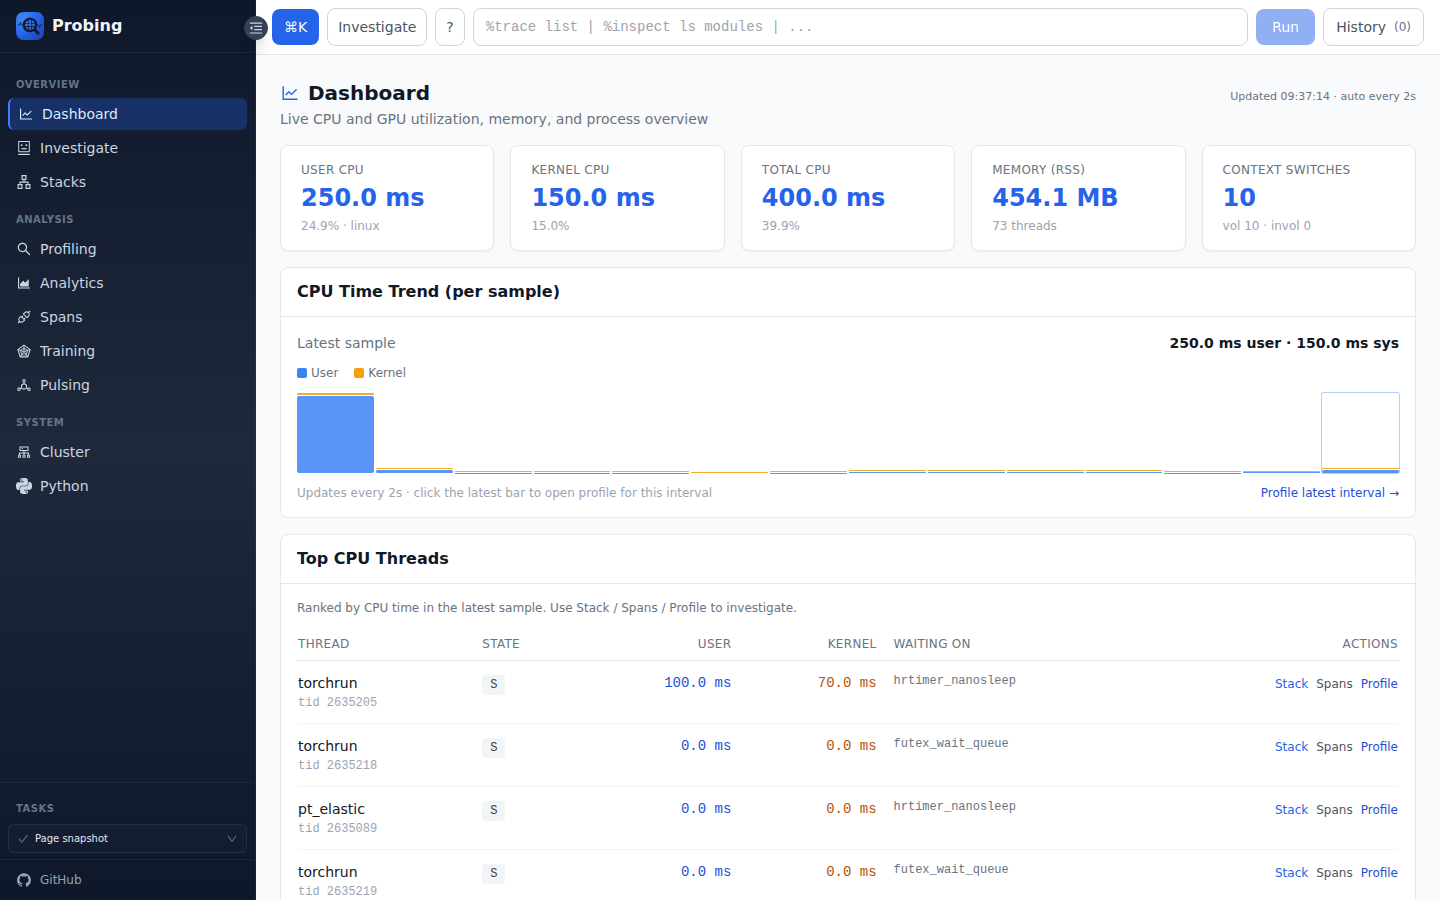
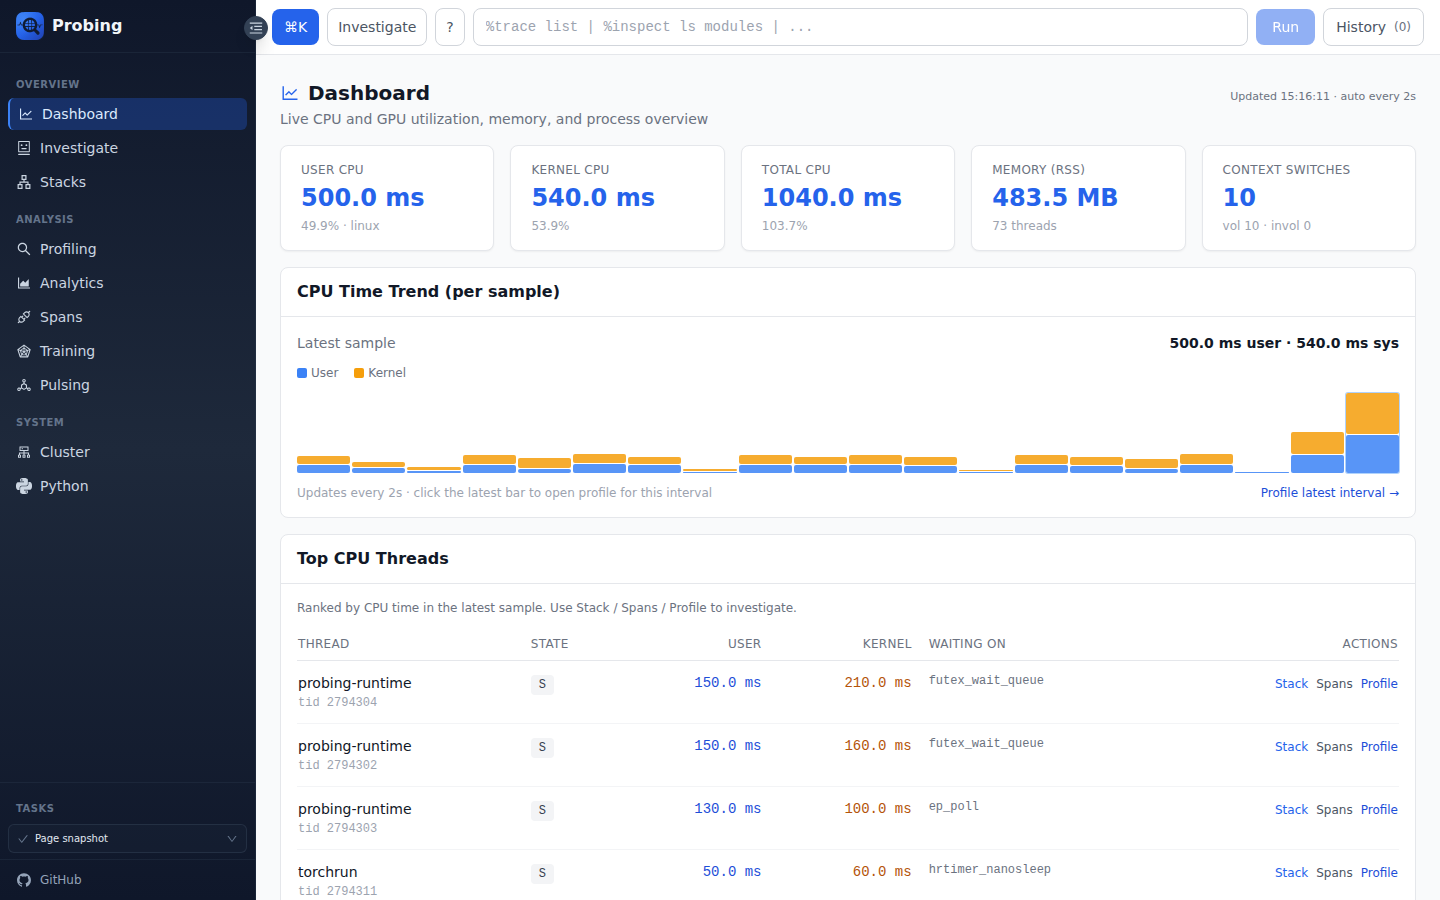
修复 Megatron Spans 截图为浏览器断连页的问题。
采集时优先截 /spans 并延长 train-iters，重采 web_megatron_spans.png 为真实 Probing UI。

diff --git a/docs/probing-visualization-guide.md b/docs/probing-visualization-guide.md
@@ -264,9 +264,13 @@ PROBING=1 PROBING_PORT=8766 PROBING_ASSETS_ROOT=probing/web/dist \
 
 ![Megatron Training](./assets/latest/web_megatron_training.png)
 
-**Distributed Spans**（Megatron `pretrain_gpt.py` 进程）：
+**Distributed Spans**（Megatron `pretrain_gpt.py` 进程；需在训练仍在运行时打开 `/spans`）：
 
 ![Megatron Spans](./assets/latest/web_megatron_spans.png)
+
+Megatron 默认未写入 `python.trace_event` span，因此 Spans 页可能为空（上图即此情况）。若需层级 span，请参考 §5.2 的 demo 训练截图，或在 Megatron 中接入 `probing.attach_training_phases` / 手动 `probing.span()`。
+
+> 旧版素材若在 Megatron 已退出后采集 `/spans`，会出现 Chrome「This site can't be reached」；可运行 `bash scripts/capture_megatron_web.sh` 重采（脚本会 **优先** 截 `/spans`）。
 
 ---
 
@@ -277,6 +281,7 @@ PROBING=1 PROBING_PORT=8766 PROBING_ASSETS_ROOT=probing/web/dist \
 | `scripts/build_frontend_docker.sh` | Docker 内构建 Web UI |
 | `scripts/demo_train_viz.py` | 带 phase hook 的小训练（span 最全） |
 | `scripts/capture_viz_demo.sh` | 自动采集 CLI + Web 截图 |
+| `scripts/capture_megatron_web.sh` | 单独重采 Megatron Dashboard/Training/Spans |
 | `scripts/capture_training_heatmap.sh` | 2-GPU DDP + Step×Rank 热力图截图 |
 | `scripts/setup_visualization_docs.sh` | 上述全部一键执行 |
 | `scripts/verify_doc_assets.sh` | 校验本文档图片路径与 `latest/` 文件一致 |